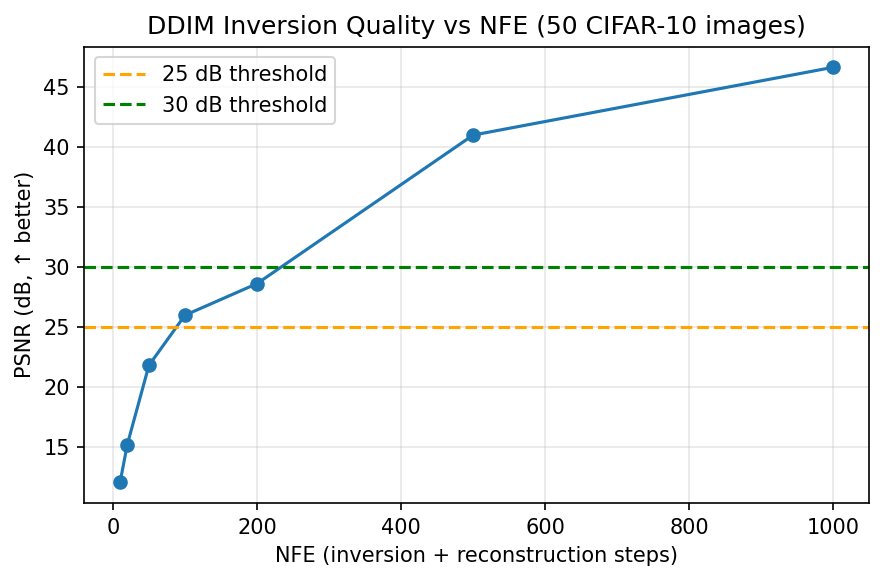
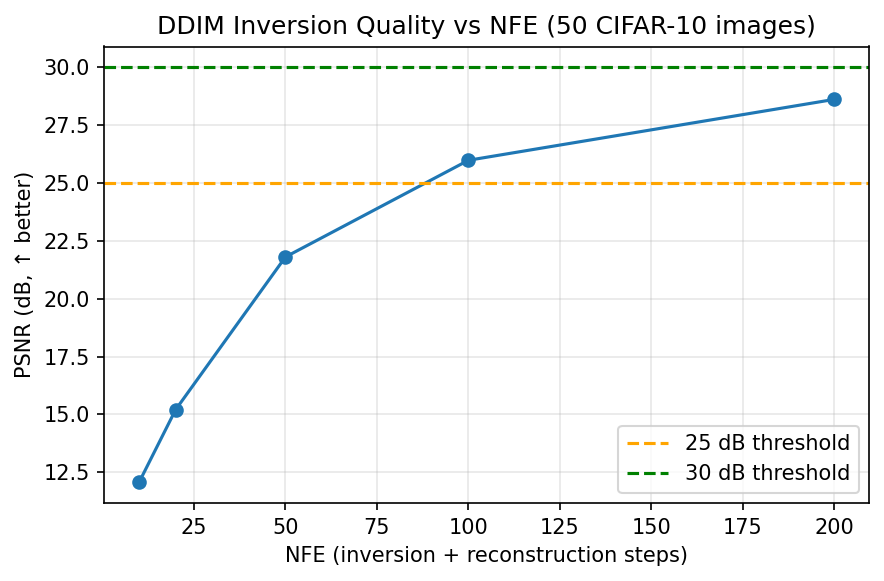
README Modified

diff --git a/src/sampling.py b/src/sampling.py
@@ -117,61 +117,3 @@ def denoise_steps(
                 steps.append((t_prev if t_prev >= 0 else 0, x.detach().clone()))
 
     return steps if store_intermediates else x
-
-
-def sample_with_solver(
-    eps_fn: Callable[[Tensor, int], Tensor],
-    step_fn: Callable,
-    alpha_bars: Tensor,
-    shape: tuple[int, ...],
-    num_steps: int,
-    tau_kind: str = "uniform",
-    seed: int = 42,
-    device: torch.device | str = "cpu",
-    dtype: torch.dtype = torch.float32,
-    T: int = 1000,
-) -> tuple[Tensor, float]:
-    """Generate samples using a pure step function from solvers.py (η=0).
-
-    Parameters
-    ----------
-    step_fn : callable
-        Signature: (eps_fn, x, t, t_prev, alpha_bars) -> x_prev.
-        One of: euler_step, heun_step, rk4_step, dpm2_step.
-    alpha_bars : Tensor
-        Shape (T,). Passed through to step_fn at every iteration.
-
-    All other parameters identical to `sample`.
-
-    Returns
-    -------
-    x_0 : Tensor
-    elapsed_ms : float
-    """
-    device = torch.device(device)
-    generator = torch.Generator(device=device).manual_seed(seed)
-    x = torch.randn(shape, device=device, dtype=dtype, generator=generator)
-    tau = make_tau(T, num_steps, tau_kind)
-
-    if device.type == "cuda":
-        start_ev = torch.cuda.Event(enable_timing=True)
-        end_ev = torch.cuda.Event(enable_timing=True)
-        torch.cuda.synchronize(device)
-        start_ev.record()
-    else:
-        t0 = time.perf_counter()
-
-    with torch.no_grad():
-        for i in reversed(range(len(tau))):
-            t = int(tau[i])
-            t_prev = int(tau[i - 1]) if i > 0 else -1
-            x = step_fn(eps_fn, x, t, t_prev, alpha_bars)
-
-    if device.type == "cuda":
-        end_ev.record()
-        torch.cuda.synchronize(device)
-        elapsed_ms = start_ev.elapsed_time(end_ev)
-    else:
-        elapsed_ms = (time.perf_counter() - t0) * 1e3
-
-    return x, elapsed_ms

diff --git a/README.md b/README.md
@@ -50,26 +50,76 @@ jupyter nbconvert --to notebook --execute notebooks/03_inversion_and_interpolati
 
 ---
 
-## Obtained FID on CIFAR-10
+## Reproducing Results
 
-The following results were obtained using **3072 samples** (configurable via `configs/cifar10.yaml: sampling.num_samples_fid`). 
+Each notebook can be executed end-to-end to reproduce the experimental results.
 
-*Note on FID deviation:* Because we evaluate on ~3.1K samples instead of the 50K used in the reference paper (Song et al. 2020), our absolute FID scores are systematically higher due to sample-size bias. However, statistical evaluation (Spearman rank correlation) confirms that the performance dynamics across NFE and η closely match the original paper.
+### Notebook 1: Foundations and Sanity Checks
 
-**Our Obtained Results (3.1K samples):**
+* **Equivalence:** We verify that our implemented DDIM with $\eta = 1$ exactly corresponds to `DiffusersDDPM`.
+* **Determinism:** By starting from the same latent $x_T$ and sampling with different seeds, we demonstrate that DDPM yields varying outputs, whereas DDIM ($\eta = 0$) returns the same result (a deterministic process).
+* **Sample Quality:** Generating samples from the LSUN Church dataset at NFE = 10 highlights the stark visual differences between DDPM ($\eta = 1$) and DDIM ($\eta = 0$).
+* **Reconstruction:** We take a photograph of a famous physicist (Peter Higgs), add noise, and attempt to reconstruct it using a CelebA-HQ model with both DDIM ($\eta = 1$) and DDPM ($\eta = 1$).
 
-| NFE | η=0.0 (DDIM) | η=0.2 | η=0.5 | η=1.0 (DDPM) |
+<p align="center">
+  <img src="../results/figures/photo_higgs.png" width="45%" alt="Original Photo" />
+  <img src="../results/figures/01_celebahq_trajectory_nfe10.png" width="45%" alt="Reconstruction Trajectory" />
+</p>
+
+---
+
+### Notebook 2: $\eta \times$ NFE Sweep & FID on CIFAR-10
+
+The following results were obtained using **3072 samples** (configurable via `configs/cifar10.yaml: sampling.num_samples_fid`).
+
+#### FID Results (3.1k Samples): DDIM vs. DDPM
+
+| NFE | $\eta=0.0$ (DDIM) | $\eta=0.2$ | $\eta=0.5$ | $\eta=1.0$ (DDPM) |
 |----:|:---:|:---:|:---:|:---:|
-|  10 | 22.00 | 22.54 | 24.44 | 49.35 |
-|  20 | 15.21 | 15.55 | 15.96 | 25.92 |
-|  50 | 12.97 | 12.97 | 13.38 | 16.13 |
-| 100 | 12.52 | 12.42 | 12.62 | 13.55 |
+|  **10** | 22.00 | 22.54 | 24.44 | 49.35 |
+|  **20** | 15.21 | 15.55 | 15.96 | 25.92 |
+|  **50** | 12.97 | 12.97 | 13.38 | 16.13 |
+| **100** | 12.52 | 12.42 | 12.62 | 13.55 |
 
-**Reference (Song et al. 2020, Table 1, 50K samples):**
-* NFE=10:  η=0.0 → 13.36  |  η=1.0 → 41.07
-* NFE=20:  η=0.0 → 6.84   |  η=1.0 → 18.36
-* NFE=50:  η=0.0 → 4.67   |  η=1.0 → 8.01
-* NFE=100: η=0.0 → 4.16   |  η=1.0 → 5.78
+*(For reference, see Song et al. 2020, Table 1, 50K samples)*  
+![Reference 50k Samples](../results/figures/reference_50k.png)
+
+#### Key Observations:
+* **Low NFE Regime (10–20):** $\eta=0$ (DDIM) strictly dominates. At NFE=10, $\eta=0$ achieves an FID $\approx$ 20-24, while $\eta=1$ (DDPM) yields an FID $\approx$ 47-52 (roughly 2× worse). Deterministic sampling is significantly more efficient here.
+* **Note on FID Deviation:** Because we evaluate on ~3.1K samples instead of the 50K used in the reference paper, our absolute FID scores are systematically higher due to sample-size bias. However, statistical evaluation (Spearman rank correlation) confirms that the performance dynamics across NFE and $\eta$ closely match the original paper.
+
+#### Performance and Pareto Efficiency
+
+<p align="center">
+  <img src="../results/figures/02_fid_vs_nfe.png" width="45%" alt="FID vs NFE" />
+  <img src="../results/figures/02_pareto_fid_time.png" width="45%" alt="Pareto Plot: FID vs Time" />
+</p>
+
+> **Hardware Note:** For $\eta = 1$ and NFE = 10, we recorded an unusually high execution time. This anomaly is likely due to hardware thermal throttling during that specific run.
+
+---
+
+### Notebook 3: Inversion and Interpolation
+
+#### DDIM Inversion
+DDIM inversion exploits the fact that the deterministic ($\eta=0$) sampling process is invertible. We can run the DDIM forward (noise-adding) direction using the learned model $\epsilon_\theta$ to obtain a latent $x_T$, such that running DDIM sampling backward from $x_T$ successfully reconstructs $x_0$.
+
+The forward DDIM step (Song et al. 2020, implicit Eq. 12 reversed, $\eta=0$) is defined as:
+
+$$x_t = \sqrt{\frac{\alpha_t}{\alpha_{t-1}}} \cdot x_{t-1} + \sqrt{1 - \alpha_t} \cdot \left( 1 - \sqrt{ \frac{\alpha_t}{\alpha_{t-1}} \cdot \frac{1-\alpha_{t-1}}{1-\alpha_t} } \right) \cdot \epsilon_\theta(x_{t-1}, t-1)$$
+
+Equivalently, this acts as an explicit Euler method on the probability-flow ODE in the forward (increasing $t$) direction. The approximation inherently improves with more steps. Below is the inversion of 4 real CIFAR-10 training images to $x_T$, followed by their resampling:
+
+![DDIM Inversion on CIFAR-10](../results/figures/03_inversion_cifar10.png)
+
+#### SLERP Interpolation (LSUN Bedroom 256×256)
+By sampling two latents $z_1, z_2 \sim \mathcal{N}(0,I)$ and interpolating between them via Spherical Linear Interpolation (SLERP), we reproduce Fig. 8 of Song et al. 2020. The semantic content transitions smoothly because the DDIM ($\eta=0$) process acts as a continuous, invertible mapping.
+
+**SLERP Formula:**
+
+$$\text{slerp}(z_1, z_2, \alpha) = \frac{\sin((1-\alpha)\theta)}{\sin(\theta)} \cdot z_1 + \frac{\sin(\alpha\theta)}{\sin(\theta)} \cdot z_2$$
+
+![SLERP Interpolation](../results/figures/03_slerp_bedroom.png)
 ---
 
 ## Notes on FID computation